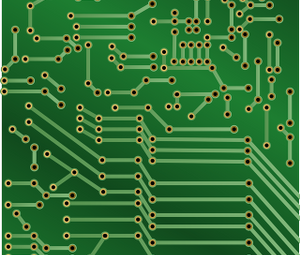
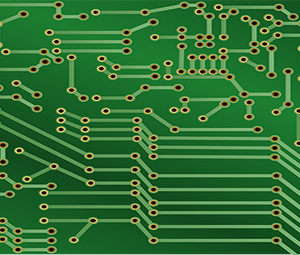
Updated from Publii

diff --git a/persistence-connection-mysql/index.html b/persistence-connection-mysql/index.html
@@ -1,4 +1,4 @@
-<!DOCTYPE html><html><head><meta charset="utf-8"><meta http-equiv="X-UA-Compatible" content="IE=edge"><meta name="viewport" content="width=device-width,initial-scale=1"><title>Kết nối liên tục - persistent connection trong MySQL - /* Dev Web With Me */</title><meta name="robots" content="index, follow"><link rel="canonical" href="http://devwebwithme.tk/persistence-connection-mysql/"><link rel="amphtml" href="http://devwebwithme.tk/amp/persistence-connection-mysql/"><link type="application/atom+xml" rel="alternate" href="http://devwebwithme.tk/feed.xml"><meta property="og:title" content="Kết nối liên tục - persistent connection trong MySQL"><meta property="og:image" content="http://devwebwithme.tk/media/posts/6/circuit-158374_640.png"><meta property="og:site_name" content="My blog - /* Dev Web With Me */"><meta property="og:description" content=""><link rel="stylesheet" href="http://devwebwithme.tk/assets/css/style.css?v&#x3D;20554b562f0d99df5596df281dcb44e1"><link rel="stylesheet" href="http://devwebwithme.tk/assets/css/responsiveslides.css?v&#x3D;895ebaa8b26d099f10a16526ba78f510"><link rel="stylesheet" href="http://devwebwithme.tk/assets/css/prism.css?v&#x3D;b1dda787b1a9954b1b6b1cccea7f81cf"><script type="application/ld+json">{"@context":"http://schema.org","@type":"Article","mainEntityOfPage":{"@type":"WebPage","@id":"http://devwebwithme.tk/persistence-connection-mysql/"},"headline":"Kết nối liên tục - persistent connection trong MySQL","datePublished":"2017-10-04T14:34","dateModified":"2017-10-05T12:04","image":{"@type":"ImageObject","url":"http://devwebwithme.tk/media/posts/6/circuit-158374_640.png","height":636,"width":640},"description":"Đ&acirc;y l&agrave; vấn đề được đề cập đến ở một c&acirc;u hỏi của StackOverFlow.com. T&ocirc;i muốn tr&igrave;nh b&agrave;y th&ecirc;m một v&agrave;i quan điểm của m&igrave;nh trong việc sử dụng loại&hellip;","author":{"@type":"Person","name":"@dp0613"},"publisher":{"@type":"Organization","name":"@dp0613"}}</script></head><body><div class="container"><header class="top"><a class="logo" href="http://devwebwithme.tk">/* Dev Web With Me */</a><nav class="navbar js-navbar"><button class="navbar__toggle js-navbar__toggle">Menu</button><ul class="navbar__menu"><li><a href="http://devwebwithme.tk/" title="Trang chủ">Trang chủ</a></li><li class="has-submenu"><span title="Bài viết">Bài viết</span><ul class="navbar__submenu"><li><a href="http://devwebwithme.tk/chuyen-muc/khoa-hoc/" title="Khóa học">Khóa học</a></li><li><a href="http://devwebwithme.tk/chuyen-muc/huong-dan/" title="Hướng dẫn">Hướng dẫn</a></li><li><a href="http://devwebwithme.tk/chuyen-muc/kinh-nghiem/" title="Kinh nghiệm">Kinh nghiệm</a></li><li><a href="http://devwebwithme.tk/chuyen-muc/sach-hay/" title="Sách hay">Sách hay</a></li><li><a href="http://devwebwithme.tk/chuyen-muc/loi-song/" title="Lối sống">Lối sống</a></li></ul></li><li><span title="Dự án">Dự án</span></li><li><a href="http://devwebwithme.tk/tac-gia/dp0613/" title="Về @dp0613">Về @dp0613</a></li><li><a href="http://devwebwithme.tk/lien-he/" title="Liên hệ">Liên hệ</a></li><li class="donate-btn"><a href="http://devwebwithme.tk/ung-ho-toi/" title="ỦNG HỘ TÔI !">ỦNG HỘ TÔI !</a></li></ul></nav></header><main class="main"><article class="post"><header><h1>Kết nối liên tục - persistent connection trong MySQL</h1><ul class="post__meta u-small"><li>Tác giả: <a href="http://devwebwithme.tk/tac-gia/dp0613/" rel="author" title="@dp0613">@dp0613</a></li><li>Xuất bản vào: <time datetime="2017-10-04T14:34">04/10/2017 14:34:20</time></li><li>Chuyên mục: <a href="http://devwebwithme.tk/chuyen-muc/kinh-nghiem/" title="Kinh nghiệm">Kinh nghiệm</a></li></ul><figure><img src="http://devwebwithme.tk/media/posts/6/circuit-158374_640.png" sizes="(max-width: 1024px) 100vw, 1024px" srcset="http://devwebwithme.tk/media/posts/6/responsive/circuit-158374_640-xs.png 300w, http://devwebwithme.tk/media/posts/6/responsive/circuit-158374_640-sm.png 480w, http://devwebwithme.tk/media/posts/6/responsive/circuit-158374_640-md.png 768w, http://devwebwithme.tk/media/posts/6/responsive/circuit-158374_640-lg.png 1024w" alt="Kết nối liên tục - persistent connection trong MySQL"><figcaption>Kết nối liên tục (Hình ảnh từ Pixabay.com)</figcaption></figure></header><div class="post__entry"><p>Đ&acirc;y l&agrave; vấn đề được đề cập đến ở một c&acirc;u hỏi của <a href="https://stackoverflow.com/questions/50303/persistent-db-connections-yea-or-nay" target="_blank" rel="noopener noreferrer">StackOverFlow.com</a>. T&ocirc;i muốn tr&igrave;nh b&agrave;y th&ecirc;m một v&agrave;i quan điểm của m&igrave;nh trong việc sử dụng loại "Kết nối li&ecirc;n tục - persistent connection" trong MySQL.</p><h4>Định nghĩa</h4><p>Kết nối li&ecirc;n tục đ&uacute;ng như t&ecirc;n gọi của n&oacute;, được giữ diễn ra li&ecirc;n tục, n&oacute; kh&ocirc;ng bị ngắt khi chuỗi truy vấn được thực thi xong. Trước khi thực hiện 1 kết nối li&ecirc;n tục đến m&aacute;y chủ, PHP sẽ kiểm tra xem c&oacute; tồn tại kết nối n&agrave;o được tạo trước đ&oacute; kh&ocirc;ng. Nếu c&oacute; PHP sẽ sử dụng kết nối đ&atilde; tạo đ&oacute;, nếu kh&ocirc;ng th&igrave; mới tiến h&agrave;nh tạo 1 kết nối mới.</p><h4>Viết code để mở kết nối li&ecirc;n tục</h4><pre><code class="language-php">
+<!DOCTYPE html><html><head><meta charset="utf-8"><meta http-equiv="X-UA-Compatible" content="IE=edge"><meta name="viewport" content="width=device-width,initial-scale=1"><title>Kết nối liên tục - persistent connection trong MySQL - /* Dev Web With Me */</title><meta name="robots" content="index, follow"><link rel="canonical" href="http://devwebwithme.tk/persistence-connection-mysql/"><link rel="amphtml" href="http://devwebwithme.tk/amp/persistence-connection-mysql/"><link type="application/atom+xml" rel="alternate" href="http://devwebwithme.tk/feed.xml"><meta property="og:title" content="Kết nối liên tục - persistent connection trong MySQL"><meta property="og:image" content="http://devwebwithme.tk/media/posts/6/circuit-158374_640.png"><meta property="og:site_name" content="My blog - /* Dev Web With Me */"><meta property="og:description" content=""><link rel="stylesheet" href="http://devwebwithme.tk/assets/css/style.css?v&#x3D;20554b562f0d99df5596df281dcb44e1"><link rel="stylesheet" href="http://devwebwithme.tk/assets/css/responsiveslides.css?v&#x3D;895ebaa8b26d099f10a16526ba78f510"><link rel="stylesheet" href="http://devwebwithme.tk/assets/css/prism.css?v&#x3D;b1dda787b1a9954b1b6b1cccea7f81cf"><script type="application/ld+json">{"@context":"http://schema.org","@type":"Article","mainEntityOfPage":{"@type":"WebPage","@id":"http://devwebwithme.tk/persistence-connection-mysql/"},"headline":"Kết nối liên tục - persistent connection trong MySQL","datePublished":"2017-10-04T14:34","dateModified":"2017-10-05T15:08","image":{"@type":"ImageObject","url":"http://devwebwithme.tk/media/posts/6/circuit-158374_640.png","height":320,"width":480},"description":"Đ&acirc;y l&agrave; vấn đề được đề cập đến ở một c&acirc;u hỏi của StackOverFlow.com. T&ocirc;i muốn tr&igrave;nh b&agrave;y th&ecirc;m một v&agrave;i quan điểm của m&igrave;nh trong việc sử dụng loại&hellip;","author":{"@type":"Person","name":"@dp0613"},"publisher":{"@type":"Organization","name":"@dp0613"}}</script></head><body><div class="container"><header class="top"><a class="logo" href="http://devwebwithme.tk">/* Dev Web With Me */</a><nav class="navbar js-navbar"><button class="navbar__toggle js-navbar__toggle">Menu</button><ul class="navbar__menu"><li><a href="http://devwebwithme.tk/" title="Trang chủ">Trang chủ</a></li><li class="has-submenu"><span title="Bài viết">Bài viết</span><ul class="navbar__submenu"><li><a href="http://devwebwithme.tk/chuyen-muc/khoa-hoc/" title="Khóa học">Khóa học</a></li><li><a href="http://devwebwithme.tk/chuyen-muc/huong-dan/" title="Hướng dẫn">Hướng dẫn</a></li><li><a href="http://devwebwithme.tk/chuyen-muc/kinh-nghiem/" title="Kinh nghiệm">Kinh nghiệm</a></li><li><a href="http://devwebwithme.tk/chuyen-muc/sach-hay/" title="Sách hay">Sách hay</a></li><li><a href="http://devwebwithme.tk/chuyen-muc/loi-song/" title="Lối sống">Lối sống</a></li></ul></li><li><span title="Dự án">Dự án</span></li><li><a href="http://devwebwithme.tk/tac-gia/dp0613/" title="Về @dp0613">Về @dp0613</a></li><li><a href="http://devwebwithme.tk/lien-he/" title="Liên hệ">Liên hệ</a></li><li class="donate-btn"><a href="http://devwebwithme.tk/ung-ho-toi/" title="ỦNG HỘ TÔI !">ỦNG HỘ TÔI !</a></li></ul></nav></header><main class="main"><article class="post"><header><h1>Kết nối liên tục - persistent connection trong MySQL</h1><ul class="post__meta u-small"><li>Tác giả: <a href="http://devwebwithme.tk/tac-gia/dp0613/" rel="author" title="@dp0613">@dp0613</a></li><li>Xuất bản vào: <time datetime="2017-10-04T14:34">04/10/2017 14:34:20</time></li><li>Chuyên mục: <a href="http://devwebwithme.tk/chuyen-muc/kinh-nghiem/" title="Kinh nghiệm">Kinh nghiệm</a></li></ul><figure><img src="http://devwebwithme.tk/media/posts/6/circuit-158374_640.png" sizes="(max-width: 1024px) 100vw, 1024px" srcset="http://devwebwithme.tk/media/posts/6/responsive/circuit-158374_640-xs.png 300w, http://devwebwithme.tk/media/posts/6/responsive/circuit-158374_640-sm.png 480w, http://devwebwithme.tk/media/posts/6/responsive/circuit-158374_640-md.png 768w, http://devwebwithme.tk/media/posts/6/responsive/circuit-158374_640-lg.png 1024w" alt="Kết nối liên tục - persistent connection trong MySQL"><figcaption>Kết nối liên tục - persistent connection trong MySQL (Hình ảnh từ Pixabay.com)</figcaption></figure></header><div class="post__entry"><p>Đ&acirc;y l&agrave; vấn đề được đề cập đến ở một c&acirc;u hỏi của <a href="https://stackoverflow.com/questions/50303/persistent-db-connections-yea-or-nay" target="_blank" rel="noopener noreferrer">StackOverFlow.com</a>. T&ocirc;i muốn tr&igrave;nh b&agrave;y th&ecirc;m một v&agrave;i quan điểm của m&igrave;nh trong việc sử dụng loại "Kết nối li&ecirc;n tục - persistent connection" trong MySQL.</p><h4>Định nghĩa</h4><p>Kết nối li&ecirc;n tục đ&uacute;ng như t&ecirc;n gọi của n&oacute;, được giữ diễn ra li&ecirc;n tục, n&oacute; kh&ocirc;ng bị ngắt khi chuỗi truy vấn được thực thi xong. Trước khi thực hiện 1 kết nối li&ecirc;n tục đến m&aacute;y chủ, PHP sẽ kiểm tra xem c&oacute; tồn tại kết nối n&agrave;o được tạo trước đ&oacute; kh&ocirc;ng. Nếu c&oacute; PHP sẽ sử dụng kết nối đ&atilde; tạo đ&oacute;, nếu kh&ocirc;ng th&igrave; mới tiến h&agrave;nh tạo 1 kết nối mới.</p><h4>Viết code để mở kết nối li&ecirc;n tục</h4><pre><code class="language-php">
 &lt;?php 
 	//Kết nối th&ocirc;ng qua mysqli
 	$conn = mysqli_query('p:localhost', 'root', '', 'my_db_name');

diff --git a/amp/tac-gia/dp0613/index.html b/amp/tac-gia/dp0613/index.html
@@ -344,4 +344,4 @@
         .author-avatar {
             margin: 1rem auto;
             width: 100px;
-        }</style><style amp-boilerplate>body{-webkit-animation:-amp-start 8s steps(1,end) 0s 1 normal both;-moz-animation:-amp-start 8s steps(1,end) 0s 1 normal both;-ms-animation:-amp-start 8s steps(1,end) 0s 1 normal both;animation:-amp-start 8s steps(1,end) 0s 1 normal both}@-webkit-keyframes -amp-start{from{visibility:hidden}to{visibility:visible}}@-moz-keyframes -amp-start{from{visibility:hidden}to{visibility:visible}}@-ms-keyframes -amp-start{from{visibility:hidden}to{visibility:visible}}@-o-keyframes -amp-start{from{visibility:hidden}to{visibility:visible}}@keyframes -amp-start{from{visibility:hidden}to{visibility:visible}}</style><noscript><style amp-boilerplate>body{-webkit-animation:none;-moz-animation:none;-ms-animation:none;animation:none}</style></noscript><script async src="https://cdn.ampproject.org/v0.js"></script></head><body><nav class="navbar"><div><a on="tap:navbar-sidebar.toggle" class="navbar-sidebar-toggle" title="Menu">Menu</a> <a class="logo logo-text" href="http://devwebwithme.tk/amp">/* Dev Web With Me */</a></div></nav><main class="wrap"><section class="hero"><header class="author"><amp-img src="http://devwebwithme.tk/media/website/dp0613.png" alt="@dp0613" class="author-avatar" height="180" layout="responsive" width="180"></amp-img><h1>@dp0613 <sup>(2)</sup></h1><p>Đam mê lập trình web. Yêu database. Ghét framework. Hay vọc bảo mật. Lấy chia sẻ và kết bạn làm niềm vui.</p></header></section><article><a href="http://devwebwithme.tk/amp/persistence-connection-mysql/"><amp-img src="http://devwebwithme.tk/media/posts/6/circuit-158374_640.png" alt="Kết nối liên tục - persistent connection trong MySQL" srcset="http://devwebwithme.tk/media/posts/6/responsive/circuit-158374_640-xs.png 300w ,http://devwebwithme.tk/media/posts/6/responsive/circuit-158374_640-sm.png 480w ,http://devwebwithme.tk/media/posts/6/responsive/circuit-158374_640-md.png 768w" sizes="(max-width: 768px) 100vw, 768px" height="636" layout="responsive" width="640"></amp-img></a><header><h2><a href="http://devwebwithme.tk/amp/persistence-connection-mysql/">Kết nối liên tục - persistent connection trong MySQL</a></h2><p><time datetime="2017-10-04T14:34">cu20to34</time></p></header><p>Đ&acirc;y l&agrave; vấn đề được đề cập đến ở một c&acirc;u hỏi của StackOverFlow.com. T&ocirc;i muốn tr&igrave;nh b&agrave;y th&ecirc;m một v&agrave;i quan điểm của m&igrave;nh trong việc sử dụng loại&hellip;</p></article><article><a href="http://devwebwithme.tk/amp/switch-va-if-else-if-lieu-ban-co-dang-dung-bua-dong-tua-vit-1506942139/"><amp-img src="http://devwebwithme.tk/media/posts/5/confused-880735_1280.jpg" alt="switch case và if else: khi nào và ở đâu?" srcset="http://devwebwithme.tk/media/posts/5/responsive/confused-880735_1280-xs.jpg 300w ,http://devwebwithme.tk/media/posts/5/responsive/confused-880735_1280-sm.jpg 480w ,http://devwebwithme.tk/media/posts/5/responsive/confused-880735_1280-md.jpg 768w" sizes="(max-width: 768px) 100vw, 768px" height="853" layout="responsive" width="1280"></amp-img></a><header><h2><a href="http://devwebwithme.tk/amp/switch-va-if-else-if-lieu-ban-co-dang-dung-bua-dong-tua-vit-1506942139/">switch case và if else: Liệu bạn có đang dùng búa để đóng tua vít?</a></h2><p><time datetime="2017-10-02T17:58">cu46to58</time></p></header><p>L&agrave; một lập tr&igrave;nh vi&ecirc;n PHP th&igrave; tui c&oacute; niềm tin rằng bạn biết đến cấu tr&uacute;c switch...case v&agrave; if... else. Trong b&agrave;i viết n&agrave;y tui sẽ cố gắng ph&acirc;n&hellip;</p></article></main><footer class="bottom">@dp0613 © 2017</footer><amp-sidebar id="navbar-sidebar" layout="nodisplay"><ul><li><a href="http://devwebwithme.tk/amp/" title="Trang chủ">Trang chủ</a></li><li><span title="Bài viết">Bài viết</span><ul class="navbar__submenu"><li><a href="http://devwebwithme.tk/amp/chuyen-muc/khoa-hoc/" title="Khóa học">Khóa học</a></li><li><a href="http://devwebwithme.tk/amp/chuyen-muc/huong-dan/" title="Hướng dẫn">Hướng dẫn</a></li><li><a href="http://devwebwithme.tk/amp/chuyen-muc/kinh-nghiem/" title="Kinh nghiệm">Kinh nghiệm</a></li><li><a href="http://devwebwithme.tk/amp/chuyen-muc/sach-hay/" title="Sách hay">Sách hay</a></li><li><a href="http://devwebwithme.tk/amp/chuyen-muc/loi-song/" title="Lối sống">Lối sống</a></li></ul></li><li><span title="Dự án">Dự án</span></li><li><a href="http://devwebwithme.tk/amp/tac-gia/dp0613/" title="Về @dp0613">Về @dp0613</a></li><li><a href="http://devwebwithme.tk/amp/lien-he/" title="Liên hệ">Liên hệ</a></li><li><a href="http://devwebwithme.tk/amp/ung-ho-toi/" title="ỦNG HỘ TÔI !">ỦNG HỘ TÔI !</a></li></ul></amp-sidebar></body></html>
+        }</style><style amp-boilerplate>body{-webkit-animation:-amp-start 8s steps(1,end) 0s 1 normal both;-moz-animation:-amp-start 8s steps(1,end) 0s 1 normal both;-ms-animation:-amp-start 8s steps(1,end) 0s 1 normal both;animation:-amp-start 8s steps(1,end) 0s 1 normal both}@-webkit-keyframes -amp-start{from{visibility:hidden}to{visibility:visible}}@-moz-keyframes -amp-start{from{visibility:hidden}to{visibility:visible}}@-ms-keyframes -amp-start{from{visibility:hidden}to{visibility:visible}}@-o-keyframes -amp-start{from{visibility:hidden}to{visibility:visible}}@keyframes -amp-start{from{visibility:hidden}to{visibility:visible}}</style><noscript><style amp-boilerplate>body{-webkit-animation:none;-moz-animation:none;-ms-animation:none;animation:none}</style></noscript><script async src="https://cdn.ampproject.org/v0.js"></script></head><body><nav class="navbar"><div><a on="tap:navbar-sidebar.toggle" class="navbar-sidebar-toggle" title="Menu">Menu</a> <a class="logo logo-text" href="http://devwebwithme.tk/amp">/* Dev Web With Me */</a></div></nav><main class="wrap"><section class="hero"><header class="author"><amp-img src="http://devwebwithme.tk/media/website/dp0613.png" alt="@dp0613" class="author-avatar" height="180" layout="responsive" width="180"></amp-img><h1>@dp0613 <sup>(2)</sup></h1><p>Đam mê lập trình web. Yêu database. Ghét framework. Hay vọc bảo mật. Lấy chia sẻ và kết bạn làm niềm vui.</p></header></section><article><a href="http://devwebwithme.tk/amp/persistence-connection-mysql/"><amp-img src="http://devwebwithme.tk/media/posts/6/circuit-158374_640.png" alt="Kết nối liên tục - persistent connection trong MySQL" srcset="http://devwebwithme.tk/media/posts/6/responsive/circuit-158374_640-xs.png 300w ,http://devwebwithme.tk/media/posts/6/responsive/circuit-158374_640-sm.png 480w ,http://devwebwithme.tk/media/posts/6/responsive/circuit-158374_640-md.png 768w" sizes="(max-width: 768px) 100vw, 768px" height="320" layout="responsive" width="480"></amp-img></a><header><h2><a href="http://devwebwithme.tk/amp/persistence-connection-mysql/">Kết nối liên tục - persistent connection trong MySQL</a></h2><p><time datetime="2017-10-04T14:34">cu20to34</time></p></header><p>Đ&acirc;y l&agrave; vấn đề được đề cập đến ở một c&acirc;u hỏi của StackOverFlow.com. T&ocirc;i muốn tr&igrave;nh b&agrave;y th&ecirc;m một v&agrave;i quan điểm của m&igrave;nh trong việc sử dụng loại&hellip;</p></article><article><a href="http://devwebwithme.tk/amp/switch-va-if-else-if-lieu-ban-co-dang-dung-bua-dong-tua-vit-1506942139/"><amp-img src="http://devwebwithme.tk/media/posts/5/confused-880735_1280.jpg" alt="switch case và if else: khi nào và ở đâu?" srcset="http://devwebwithme.tk/media/posts/5/responsive/confused-880735_1280-xs.jpg 300w ,http://devwebwithme.tk/media/posts/5/responsive/confused-880735_1280-sm.jpg 480w ,http://devwebwithme.tk/media/posts/5/responsive/confused-880735_1280-md.jpg 768w" sizes="(max-width: 768px) 100vw, 768px" height="853" layout="responsive" width="1280"></amp-img></a><header><h2><a href="http://devwebwithme.tk/amp/switch-va-if-else-if-lieu-ban-co-dang-dung-bua-dong-tua-vit-1506942139/">switch case và if else: Liệu bạn có đang dùng búa để đóng tua vít?</a></h2><p><time datetime="2017-10-02T17:58">cu46to58</time></p></header><p>L&agrave; một lập tr&igrave;nh vi&ecirc;n PHP th&igrave; tui c&oacute; niềm tin rằng bạn biết đến cấu tr&uacute;c switch...case v&agrave; if... else. Trong b&agrave;i viết n&agrave;y tui sẽ cố gắng ph&acirc;n&hellip;</p></article></main><footer class="bottom">@dp0613 © 2017</footer><amp-sidebar id="navbar-sidebar" layout="nodisplay"><ul><li><a href="http://devwebwithme.tk/amp/" title="Trang chủ">Trang chủ</a></li><li><span title="Bài viết">Bài viết</span><ul class="navbar__submenu"><li><a href="http://devwebwithme.tk/amp/chuyen-muc/khoa-hoc/" title="Khóa học">Khóa học</a></li><li><a href="http://devwebwithme.tk/amp/chuyen-muc/huong-dan/" title="Hướng dẫn">Hướng dẫn</a></li><li><a href="http://devwebwithme.tk/amp/chuyen-muc/kinh-nghiem/" title="Kinh nghiệm">Kinh nghiệm</a></li><li><a href="http://devwebwithme.tk/amp/chuyen-muc/sach-hay/" title="Sách hay">Sách hay</a></li><li><a href="http://devwebwithme.tk/amp/chuyen-muc/loi-song/" title="Lối sống">Lối sống</a></li></ul></li><li><span title="Dự án">Dự án</span></li><li><a href="http://devwebwithme.tk/amp/tac-gia/dp0613/" title="Về @dp0613">Về @dp0613</a></li><li><a href="http://devwebwithme.tk/amp/lien-he/" title="Liên hệ">Liên hệ</a></li><li><a href="http://devwebwithme.tk/amp/ung-ho-toi/" title="ỦNG HỘ TÔI !">ỦNG HỘ TÔI !</a></li></ul></amp-sidebar></body></html>

diff --git a/amp/persistence-connection-mysql/index.html b/amp/persistence-connection-mysql/index.html
@@ -1,4 +1,4 @@
-<!doctype html><html amp lang="en"><head><meta charset="utf-8"><title>Kết nối liên tục - persistent connection trong MySQL - /* Dev Web With Me */</title><meta name="robots" content="index, follow"><link rel="canonical" href="http://devwebwithme.tk/persistence-connection-mysql/"><meta name="viewport" content="width=device-width,minimum-scale=1,initial-scale=1"><link href="https://fonts.googleapis.com/css?family=Roboto:400,700" rel="stylesheet" type="text/css"><script async custom-element="amp-sidebar" src="https://cdn.ampproject.org/v0/amp-sidebar-0.1.js"></script><script async custom-element="amp-social-share" src="https://cdn.ampproject.org/v0/amp-social-share-0.1.js"></script><script type="application/ld+json">{"@context":"http://schema.org","@type":"Article","mainEntityOfPage":{"@type":"WebPage","@id":"http://devwebwithme.tk/amp/persistence-connection-mysql/"},"headline":"Kết nối liên tục - persistent connection trong MySQL","datePublished":"2017-10-04T14:34","dateModified":"2017-10-05T12:04","image":{"@type":"ImageObject","url":"http://devwebwithme.tk/media/posts/6/circuit-158374_640.png","height":636,"width":640},"description":"Đ&acirc;y l&agrave; vấn đề được đề cập đến ở một c&acirc;u hỏi của StackOverFlow.com. T&ocirc;i muốn tr&igrave;nh b&agrave;y th&ecirc;m một v&agrave;i quan điểm của m&igrave;nh trong việc sử dụng loại&hellip;","author":{"@type":"Person","name":"@dp0613"},"publisher":{"@type":"Organization","name":"@dp0613"}}</script><style amp-custom="">body,
+<!doctype html><html amp lang="en"><head><meta charset="utf-8"><title>Kết nối liên tục - persistent connection trong MySQL - /* Dev Web With Me */</title><meta name="robots" content="index, follow"><link rel="canonical" href="http://devwebwithme.tk/persistence-connection-mysql/"><meta name="viewport" content="width=device-width,minimum-scale=1,initial-scale=1"><link href="https://fonts.googleapis.com/css?family=Roboto:400,700" rel="stylesheet" type="text/css"><script async custom-element="amp-sidebar" src="https://cdn.ampproject.org/v0/amp-sidebar-0.1.js"></script><script async custom-element="amp-social-share" src="https://cdn.ampproject.org/v0/amp-social-share-0.1.js"></script><script type="application/ld+json">{"@context":"http://schema.org","@type":"Article","mainEntityOfPage":{"@type":"WebPage","@id":"http://devwebwithme.tk/amp/persistence-connection-mysql/"},"headline":"Kết nối liên tục - persistent connection trong MySQL","datePublished":"2017-10-04T14:34","dateModified":"2017-10-05T15:08","image":{"@type":"ImageObject","url":"http://devwebwithme.tk/media/posts/6/circuit-158374_640.png","height":320,"width":480},"description":"Đ&acirc;y l&agrave; vấn đề được đề cập đến ở một c&acirc;u hỏi của StackOverFlow.com. T&ocirc;i muốn tr&igrave;nh b&agrave;y th&ecirc;m một v&agrave;i quan điểm của m&igrave;nh trong việc sử dụng loại&hellip;","author":{"@type":"Person","name":"@dp0613"},"publisher":{"@type":"Organization","name":"@dp0613"}}</script><style amp-custom="">body,
 		div,
 		dl,
 		dt,
@@ -344,7 +344,7 @@
         .author-avatar {
             margin: 1rem auto;
             width: 100px;
-        }</style><style amp-boilerplate>body{-webkit-animation:-amp-start 8s steps(1,end) 0s 1 normal both;-moz-animation:-amp-start 8s steps(1,end) 0s 1 normal both;-ms-animation:-amp-start 8s steps(1,end) 0s 1 normal both;animation:-amp-start 8s steps(1,end) 0s 1 normal both}@-webkit-keyframes -amp-start{from{visibility:hidden}to{visibility:visible}}@-moz-keyframes -amp-start{from{visibility:hidden}to{visibility:visible}}@-ms-keyframes -amp-start{from{visibility:hidden}to{visibility:visible}}@-o-keyframes -amp-start{from{visibility:hidden}to{visibility:visible}}@keyframes -amp-start{from{visibility:hidden}to{visibility:visible}}</style><noscript><style amp-boilerplate>body{-webkit-animation:none;-moz-animation:none;-ms-animation:none;animation:none}</style></noscript><script async src="https://cdn.ampproject.org/v0.js"></script></head><body><nav class="navbar"><div><a on="tap:navbar-sidebar.toggle" class="navbar-sidebar-toggle" title="Menu">Menu</a> <a class="logo logo-text" href="http://devwebwithme.tk/amp">/* Dev Web With Me */</a></div></nav><main class="wrap"><article class="post"><header><h1>Kết nối liên tục - persistent connection trong MySQL</h1><p>by <a href="http://devwebwithme.tk/amp/tac-gia/dp0613/" rel="nofollow" title="@dp0613">@dp0613</a>,<br>published on <time datetime="2017-10-04T14:34">cu20to34</time></p></header><figure><amp-img src="http://devwebwithme.tk/media/posts/6/circuit-158374_640.png" alt="Kết nối liên tục - persistent connection trong MySQL" srcset="http://devwebwithme.tk/media/posts/6/responsive/circuit-158374_640-xs.png 300w ,http://devwebwithme.tk/media/posts/6/responsive/circuit-158374_640-sm.png 480w ,http://devwebwithme.tk/media/posts/6/responsive/circuit-158374_640-md.png 768w" sizes="(max-width: 768px) 100vw, 768px" height="636" layout="responsive" width="640"></amp-img><figcaption>Kết nối liên tục (Hình ảnh từ Pixabay.com)</figcaption></figure><p>Đ&acirc;y l&agrave; vấn đề được đề cập đến ở một c&acirc;u hỏi của <a href="https://stackoverflow.com/questions/50303/persistent-db-connections-yea-or-nay" target="_blank" rel="noopener noreferrer">StackOverFlow.com</a>. T&ocirc;i muốn tr&igrave;nh b&agrave;y th&ecirc;m một v&agrave;i quan điểm của m&igrave;nh trong việc sử dụng loại "Kết nối li&ecirc;n tục - persistent connection" trong MySQL.</p><h4>Định nghĩa</h4><p>Kết nối li&ecirc;n tục đ&uacute;ng như t&ecirc;n gọi của n&oacute;, được giữ diễn ra li&ecirc;n tục, n&oacute; kh&ocirc;ng bị ngắt khi chuỗi truy vấn được thực thi xong. Trước khi thực hiện 1 kết nối li&ecirc;n tục đến m&aacute;y chủ, PHP sẽ kiểm tra xem c&oacute; tồn tại kết nối n&agrave;o được tạo trước đ&oacute; kh&ocirc;ng. Nếu c&oacute; PHP sẽ sử dụng kết nối đ&atilde; tạo đ&oacute;, nếu kh&ocirc;ng th&igrave; mới tiến h&agrave;nh tạo 1 kết nối mới.</p><h4>Viết code để mở kết nối li&ecirc;n tục</h4><pre><code class="language-php">
+        }</style><style amp-boilerplate>body{-webkit-animation:-amp-start 8s steps(1,end) 0s 1 normal both;-moz-animation:-amp-start 8s steps(1,end) 0s 1 normal both;-ms-animation:-amp-start 8s steps(1,end) 0s 1 normal both;animation:-amp-start 8s steps(1,end) 0s 1 normal both}@-webkit-keyframes -amp-start{from{visibility:hidden}to{visibility:visible}}@-moz-keyframes -amp-start{from{visibility:hidden}to{visibility:visible}}@-ms-keyframes -amp-start{from{visibility:hidden}to{visibility:visible}}@-o-keyframes -amp-start{from{visibility:hidden}to{visibility:visible}}@keyframes -amp-start{from{visibility:hidden}to{visibility:visible}}</style><noscript><style amp-boilerplate>body{-webkit-animation:none;-moz-animation:none;-ms-animation:none;animation:none}</style></noscript><script async src="https://cdn.ampproject.org/v0.js"></script></head><body><nav class="navbar"><div><a on="tap:navbar-sidebar.toggle" class="navbar-sidebar-toggle" title="Menu">Menu</a> <a class="logo logo-text" href="http://devwebwithme.tk/amp">/* Dev Web With Me */</a></div></nav><main class="wrap"><article class="post"><header><h1>Kết nối liên tục - persistent connection trong MySQL</h1><p>by <a href="http://devwebwithme.tk/amp/tac-gia/dp0613/" rel="nofollow" title="@dp0613">@dp0613</a>,<br>published on <time datetime="2017-10-04T14:34">cu20to34</time></p></header><figure><amp-img src="http://devwebwithme.tk/media/posts/6/circuit-158374_640.png" alt="Kết nối liên tục - persistent connection trong MySQL" srcset="http://devwebwithme.tk/media/posts/6/responsive/circuit-158374_640-xs.png 300w ,http://devwebwithme.tk/media/posts/6/responsive/circuit-158374_640-sm.png 480w ,http://devwebwithme.tk/media/posts/6/responsive/circuit-158374_640-md.png 768w" sizes="(max-width: 768px) 100vw, 768px" height="320" layout="responsive" width="480"></amp-img><figcaption>Kết nối liên tục - persistent connection trong MySQL (Hình ảnh từ Pixabay.com)</figcaption></figure><p>Đ&acirc;y l&agrave; vấn đề được đề cập đến ở một c&acirc;u hỏi của <a href="https://stackoverflow.com/questions/50303/persistent-db-connections-yea-or-nay" target="_blank" rel="noopener noreferrer">StackOverFlow.com</a>. T&ocirc;i muốn tr&igrave;nh b&agrave;y th&ecirc;m một v&agrave;i quan điểm của m&igrave;nh trong việc sử dụng loại "Kết nối li&ecirc;n tục - persistent connection" trong MySQL.</p><h4>Định nghĩa</h4><p>Kết nối li&ecirc;n tục đ&uacute;ng như t&ecirc;n gọi của n&oacute;, được giữ diễn ra li&ecirc;n tục, n&oacute; kh&ocirc;ng bị ngắt khi chuỗi truy vấn được thực thi xong. Trước khi thực hiện 1 kết nối li&ecirc;n tục đến m&aacute;y chủ, PHP sẽ kiểm tra xem c&oacute; tồn tại kết nối n&agrave;o được tạo trước đ&oacute; kh&ocirc;ng. Nếu c&oacute; PHP sẽ sử dụng kết nối đ&atilde; tạo đ&oacute;, nếu kh&ocirc;ng th&igrave; mới tiến h&agrave;nh tạo 1 kết nối mới.</p><h4>Viết code để mở kết nối li&ecirc;n tục</h4><pre><code class="language-php">
 &lt;?php 
 	//Kết nối th&ocirc;ng qua mysqli
 	$conn = mysqli_query('p:localhost', 'root', '', 'my_db_name');

diff --git a/amp/chuyen-muc/kinh-nghiem/index.html b/amp/chuyen-muc/kinh-nghiem/index.html
@@ -344,4 +344,4 @@
         .author-avatar {
             margin: 1rem auto;
             width: 100px;
-        }</style><style amp-boilerplate>body{-webkit-animation:-amp-start 8s steps(1,end) 0s 1 normal both;-moz-animation:-amp-start 8s steps(1,end) 0s 1 normal both;-ms-animation:-amp-start 8s steps(1,end) 0s 1 normal both;animation:-amp-start 8s steps(1,end) 0s 1 normal both}@-webkit-keyframes -amp-start{from{visibility:hidden}to{visibility:visible}}@-moz-keyframes -amp-start{from{visibility:hidden}to{visibility:visible}}@-ms-keyframes -amp-start{from{visibility:hidden}to{visibility:visible}}@-o-keyframes -amp-start{from{visibility:hidden}to{visibility:visible}}@keyframes -amp-start{from{visibility:hidden}to{visibility:visible}}</style><noscript><style amp-boilerplate>body{-webkit-animation:none;-moz-animation:none;-ms-animation:none;animation:none}</style></noscript><script async src="https://cdn.ampproject.org/v0.js"></script></head><body><nav class="navbar"><div><a on="tap:navbar-sidebar.toggle" class="navbar-sidebar-toggle" title="Menu">Menu</a> <a class="logo logo-text" href="http://devwebwithme.tk/amp">/* Dev Web With Me */</a></div></nav><main class="wrap"><section class="hero"><header><h1>Kinh nghiệm <sup>(2)</sup></h1></header></section><article><a href="http://devwebwithme.tk/amp/persistence-connection-mysql/"><amp-img src="http://devwebwithme.tk/media/posts/6/circuit-158374_640.png" srcset="http://devwebwithme.tk/media/posts/6/responsive/circuit-158374_640-xs.png 300w ,http://devwebwithme.tk/media/posts/6/responsive/circuit-158374_640-sm.png 480w ,http://devwebwithme.tk/media/posts/6/responsive/circuit-158374_640-md.png 768w" sizes="(max-width: 768px) 100vw, 768px" alt="Kết nối liên tục - persistent connection trong MySQL" height="636" layout="responsive" width="640"></amp-img></a><header><h2><a href="http://devwebwithme.tk/amp/persistence-connection-mysql/">Kết nối liên tục - persistent connection trong MySQL</a></h2><p><a href="http://devwebwithme.tk/amp/tac-gia/dp0613/">@dp0613</a>, <time datetime="2017-10-04T14:34">cu20to34</time></p></header><p>Đ&acirc;y l&agrave; vấn đề được đề cập đến ở một c&acirc;u hỏi của StackOverFlow.com. T&ocirc;i muốn tr&igrave;nh b&agrave;y th&ecirc;m một v&agrave;i quan điểm của m&igrave;nh trong việc sử dụng loại&hellip;</p></article><article><a href="http://devwebwithme.tk/amp/switch-va-if-else-if-lieu-ban-co-dang-dung-bua-dong-tua-vit-1506942139/"><amp-img src="http://devwebwithme.tk/media/posts/5/confused-880735_1280.jpg" srcset="http://devwebwithme.tk/media/posts/5/responsive/confused-880735_1280-xs.jpg 300w ,http://devwebwithme.tk/media/posts/5/responsive/confused-880735_1280-sm.jpg 480w ,http://devwebwithme.tk/media/posts/5/responsive/confused-880735_1280-md.jpg 768w" sizes="(max-width: 768px) 100vw, 768px" alt="switch case và if else: khi nào và ở đâu?" height="853" layout="responsive" width="1280"></amp-img></a><header><h2><a href="http://devwebwithme.tk/amp/switch-va-if-else-if-lieu-ban-co-dang-dung-bua-dong-tua-vit-1506942139/">switch case và if else: Liệu bạn có đang dùng búa để đóng tua vít?</a></h2><p><a href="http://devwebwithme.tk/amp/tac-gia/dp0613/">@dp0613</a>, <time datetime="2017-10-02T17:58">cu46to58</time></p></header><p>L&agrave; một lập tr&igrave;nh vi&ecirc;n PHP th&igrave; tui c&oacute; niềm tin rằng bạn biết đến cấu tr&uacute;c switch...case v&agrave; if... else. Trong b&agrave;i viết n&agrave;y tui sẽ cố gắng ph&acirc;n&hellip;</p></article></main><footer class="bottom">@dp0613 © 2017</footer><amp-sidebar id="navbar-sidebar" layout="nodisplay"><ul><li><a href="http://devwebwithme.tk/amp/" title="Trang chủ">Trang chủ</a></li><li><span title="Bài viết">Bài viết</span><ul class="navbar__submenu"><li><a href="http://devwebwithme.tk/amp/chuyen-muc/khoa-hoc/" title="Khóa học">Khóa học</a></li><li><a href="http://devwebwithme.tk/amp/chuyen-muc/huong-dan/" title="Hướng dẫn">Hướng dẫn</a></li><li class="active"><a href="http://devwebwithme.tk/amp/chuyen-muc/kinh-nghiem/" title="Kinh nghiệm">Kinh nghiệm</a></li><li><a href="http://devwebwithme.tk/amp/chuyen-muc/sach-hay/" title="Sách hay">Sách hay</a></li><li><a href="http://devwebwithme.tk/amp/chuyen-muc/loi-song/" title="Lối sống">Lối sống</a></li></ul></li><li><span title="Dự án">Dự án</span></li><li><a href="http://devwebwithme.tk/amp/tac-gia/dp0613/" title="Về @dp0613">Về @dp0613</a></li><li><a href="http://devwebwithme.tk/amp/lien-he/" title="Liên hệ">Liên hệ</a></li><li><a href="http://devwebwithme.tk/amp/ung-ho-toi/" title="ỦNG HỘ TÔI !">ỦNG HỘ TÔI !</a></li></ul></amp-sidebar></body></html>
+        }</style><style amp-boilerplate>body{-webkit-animation:-amp-start 8s steps(1,end) 0s 1 normal both;-moz-animation:-amp-start 8s steps(1,end) 0s 1 normal both;-ms-animation:-amp-start 8s steps(1,end) 0s 1 normal both;animation:-amp-start 8s steps(1,end) 0s 1 normal both}@-webkit-keyframes -amp-start{from{visibility:hidden}to{visibility:visible}}@-moz-keyframes -amp-start{from{visibility:hidden}to{visibility:visible}}@-ms-keyframes -amp-start{from{visibility:hidden}to{visibility:visible}}@-o-keyframes -amp-start{from{visibility:hidden}to{visibility:visible}}@keyframes -amp-start{from{visibility:hidden}to{visibility:visible}}</style><noscript><style amp-boilerplate>body{-webkit-animation:none;-moz-animation:none;-ms-animation:none;animation:none}</style></noscript><script async src="https://cdn.ampproject.org/v0.js"></script></head><body><nav class="navbar"><div><a on="tap:navbar-sidebar.toggle" class="navbar-sidebar-toggle" title="Menu">Menu</a> <a class="logo logo-text" href="http://devwebwithme.tk/amp">/* Dev Web With Me */</a></div></nav><main class="wrap"><section class="hero"><header><h1>Kinh nghiệm <sup>(2)</sup></h1></header></section><article><a href="http://devwebwithme.tk/amp/persistence-connection-mysql/"><amp-img src="http://devwebwithme.tk/media/posts/6/circuit-158374_640.png" srcset="http://devwebwithme.tk/media/posts/6/responsive/circuit-158374_640-xs.png 300w ,http://devwebwithme.tk/media/posts/6/responsive/circuit-158374_640-sm.png 480w ,http://devwebwithme.tk/media/posts/6/responsive/circuit-158374_640-md.png 768w" sizes="(max-width: 768px) 100vw, 768px" alt="Kết nối liên tục - persistent connection trong MySQL" height="320" layout="responsive" width="480"></amp-img></a><header><h2><a href="http://devwebwithme.tk/amp/persistence-connection-mysql/">Kết nối liên tục - persistent connection trong MySQL</a></h2><p><a href="http://devwebwithme.tk/amp/tac-gia/dp0613/">@dp0613</a>, <time datetime="2017-10-04T14:34">cu20to34</time></p></header><p>Đ&acirc;y l&agrave; vấn đề được đề cập đến ở một c&acirc;u hỏi của StackOverFlow.com. T&ocirc;i muốn tr&igrave;nh b&agrave;y th&ecirc;m một v&agrave;i quan điểm của m&igrave;nh trong việc sử dụng loại&hellip;</p></article><article><a href="http://devwebwithme.tk/amp/switch-va-if-else-if-lieu-ban-co-dang-dung-bua-dong-tua-vit-1506942139/"><amp-img src="http://devwebwithme.tk/media/posts/5/confused-880735_1280.jpg" srcset="http://devwebwithme.tk/media/posts/5/responsive/confused-880735_1280-xs.jpg 300w ,http://devwebwithme.tk/media/posts/5/responsive/confused-880735_1280-sm.jpg 480w ,http://devwebwithme.tk/media/posts/5/responsive/confused-880735_1280-md.jpg 768w" sizes="(max-width: 768px) 100vw, 768px" alt="switch case và if else: khi nào và ở đâu?" height="853" layout="responsive" width="1280"></amp-img></a><header><h2><a href="http://devwebwithme.tk/amp/switch-va-if-else-if-lieu-ban-co-dang-dung-bua-dong-tua-vit-1506942139/">switch case và if else: Liệu bạn có đang dùng búa để đóng tua vít?</a></h2><p><a href="http://devwebwithme.tk/amp/tac-gia/dp0613/">@dp0613</a>, <time datetime="2017-10-02T17:58">cu46to58</time></p></header><p>L&agrave; một lập tr&igrave;nh vi&ecirc;n PHP th&igrave; tui c&oacute; niềm tin rằng bạn biết đến cấu tr&uacute;c switch...case v&agrave; if... else. Trong b&agrave;i viết n&agrave;y tui sẽ cố gắng ph&acirc;n&hellip;</p></article></main><footer class="bottom">@dp0613 © 2017</footer><amp-sidebar id="navbar-sidebar" layout="nodisplay"><ul><li><a href="http://devwebwithme.tk/amp/" title="Trang chủ">Trang chủ</a></li><li><span title="Bài viết">Bài viết</span><ul class="navbar__submenu"><li><a href="http://devwebwithme.tk/amp/chuyen-muc/khoa-hoc/" title="Khóa học">Khóa học</a></li><li><a href="http://devwebwithme.tk/amp/chuyen-muc/huong-dan/" title="Hướng dẫn">Hướng dẫn</a></li><li class="active"><a href="http://devwebwithme.tk/amp/chuyen-muc/kinh-nghiem/" title="Kinh nghiệm">Kinh nghiệm</a></li><li><a href="http://devwebwithme.tk/amp/chuyen-muc/sach-hay/" title="Sách hay">Sách hay</a></li><li><a href="http://devwebwithme.tk/amp/chuyen-muc/loi-song/" title="Lối sống">Lối sống</a></li></ul></li><li><span title="Dự án">Dự án</span></li><li><a href="http://devwebwithme.tk/amp/tac-gia/dp0613/" title="Về @dp0613">Về @dp0613</a></li><li><a href="http://devwebwithme.tk/amp/lien-he/" title="Liên hệ">Liên hệ</a></li><li><a href="http://devwebwithme.tk/amp/ung-ho-toi/" title="ỦNG HỘ TÔI !">ỦNG HỘ TÔI !</a></li></ul></amp-sidebar></body></html>

diff --git a/amp/index.html b/amp/index.html
@@ -344,4 +344,4 @@
         .author-avatar {
             margin: 1rem auto;
             width: 100px;
-        }</style><style amp-boilerplate>body{-webkit-animation:-amp-start 8s steps(1,end) 0s 1 normal both;-moz-animation:-amp-start 8s steps(1,end) 0s 1 normal both;-ms-animation:-amp-start 8s steps(1,end) 0s 1 normal both;animation:-amp-start 8s steps(1,end) 0s 1 normal both}@-webkit-keyframes -amp-start{from{visibility:hidden}to{visibility:visible}}@-moz-keyframes -amp-start{from{visibility:hidden}to{visibility:visible}}@-ms-keyframes -amp-start{from{visibility:hidden}to{visibility:visible}}@-o-keyframes -amp-start{from{visibility:hidden}to{visibility:visible}}@keyframes -amp-start{from{visibility:hidden}to{visibility:visible}}</style><noscript><style amp-boilerplate>body{-webkit-animation:none;-moz-animation:none;-ms-animation:none;animation:none}</style></noscript><script async src="https://cdn.ampproject.org/v0.js"></script></head><body><nav class="navbar"><div><a on="tap:navbar-sidebar.toggle" class="navbar-sidebar-toggle" title="Menu">Menu</a> <a class="logo logo-text" href="http://devwebwithme.tk/amp">/* Dev Web With Me */</a></div></nav><main class="wrap"><article><header><h2><a href="http://devwebwithme.tk/amp/persistence-connection-mysql/">Kết nối liên tục - persistent connection trong MySQL</a></h2><p><a href="http://devwebwithme.tk/amp/tac-gia/dp0613/">@dp0613</a>, <time datetime="2017-10-04T14:34">cu20to34</time></p></header><a href="http://devwebwithme.tk/amp/persistence-connection-mysql/"><amp-img src="http://devwebwithme.tk/media/posts/6/circuit-158374_640.png" alt="Kết nối liên tục - persistent connection trong MySQL" srcset="http://devwebwithme.tk/media/posts/6/responsive/circuit-158374_640-xs.png 300w ,http://devwebwithme.tk/media/posts/6/responsive/circuit-158374_640-sm.png 480w ,http://devwebwithme.tk/media/posts/6/responsive/circuit-158374_640-md.png 768w" sizes="(max-width: 768px) 100vw, 768px" height="636" layout="responsive" width="640"></amp-img></a><p>Đ&acirc;y l&agrave; vấn đề được đề cập đến ở một c&acirc;u hỏi của StackOverFlow.com. T&ocirc;i muốn tr&igrave;nh b&agrave;y th&ecirc;m một v&agrave;i quan điểm của m&igrave;nh trong việc sử dụng loại&hellip;</p></article><article><header><h2><a href="http://devwebwithme.tk/amp/switch-va-if-else-if-lieu-ban-co-dang-dung-bua-dong-tua-vit-1506942139/">switch case và if else: Liệu bạn có đang dùng búa để đóng tua vít?</a></h2><p><a href="http://devwebwithme.tk/amp/tac-gia/dp0613/">@dp0613</a>, <time datetime="2017-10-02T17:58">cu46to58</time></p></header><a href="http://devwebwithme.tk/amp/switch-va-if-else-if-lieu-ban-co-dang-dung-bua-dong-tua-vit-1506942139/"><amp-img src="http://devwebwithme.tk/media/posts/5/confused-880735_1280.jpg" alt="switch case và if else: khi nào và ở đâu?" srcset="http://devwebwithme.tk/media/posts/5/responsive/confused-880735_1280-xs.jpg 300w ,http://devwebwithme.tk/media/posts/5/responsive/confused-880735_1280-sm.jpg 480w ,http://devwebwithme.tk/media/posts/5/responsive/confused-880735_1280-md.jpg 768w" sizes="(max-width: 768px) 100vw, 768px" height="853" layout="responsive" width="1280"></amp-img></a><p>L&agrave; một lập tr&igrave;nh vi&ecirc;n PHP th&igrave; tui c&oacute; niềm tin rằng bạn biết đến cấu tr&uacute;c switch...case v&agrave; if... else. Trong b&agrave;i viết n&agrave;y tui sẽ cố gắng ph&acirc;n&hellip;</p></article></main><footer class="bottom">@dp0613 © 2017</footer><amp-sidebar id="navbar-sidebar" layout="nodisplay"><ul><li><a href="http://devwebwithme.tk/amp/" title="Trang chủ">Trang chủ</a></li><li><span title="Bài viết">Bài viết</span><ul class="navbar__submenu"><li><a href="http://devwebwithme.tk/amp/chuyen-muc/khoa-hoc/" title="Khóa học">Khóa học</a></li><li><a href="http://devwebwithme.tk/amp/chuyen-muc/huong-dan/" title="Hướng dẫn">Hướng dẫn</a></li><li><a href="http://devwebwithme.tk/amp/chuyen-muc/kinh-nghiem/" title="Kinh nghiệm">Kinh nghiệm</a></li><li><a href="http://devwebwithme.tk/amp/chuyen-muc/sach-hay/" title="Sách hay">Sách hay</a></li><li><a href="http://devwebwithme.tk/amp/chuyen-muc/loi-song/" title="Lối sống">Lối sống</a></li></ul></li><li><span title="Dự án">Dự án</span></li><li><a href="http://devwebwithme.tk/amp/tac-gia/dp0613/" title="Về @dp0613">Về @dp0613</a></li><li><a href="http://devwebwithme.tk/amp/lien-he/" title="Liên hệ">Liên hệ</a></li><li><a href="http://devwebwithme.tk/amp/ung-ho-toi/" title="ỦNG HỘ TÔI !">ỦNG HỘ TÔI !</a></li></ul></amp-sidebar></body></html>
+        }</style><style amp-boilerplate>body{-webkit-animation:-amp-start 8s steps(1,end) 0s 1 normal both;-moz-animation:-amp-start 8s steps(1,end) 0s 1 normal both;-ms-animation:-amp-start 8s steps(1,end) 0s 1 normal both;animation:-amp-start 8s steps(1,end) 0s 1 normal both}@-webkit-keyframes -amp-start{from{visibility:hidden}to{visibility:visible}}@-moz-keyframes -amp-start{from{visibility:hidden}to{visibility:visible}}@-ms-keyframes -amp-start{from{visibility:hidden}to{visibility:visible}}@-o-keyframes -amp-start{from{visibility:hidden}to{visibility:visible}}@keyframes -amp-start{from{visibility:hidden}to{visibility:visible}}</style><noscript><style amp-boilerplate>body{-webkit-animation:none;-moz-animation:none;-ms-animation:none;animation:none}</style></noscript><script async src="https://cdn.ampproject.org/v0.js"></script></head><body><nav class="navbar"><div><a on="tap:navbar-sidebar.toggle" class="navbar-sidebar-toggle" title="Menu">Menu</a> <a class="logo logo-text" href="http://devwebwithme.tk/amp">/* Dev Web With Me */</a></div></nav><main class="wrap"><article><header><h2><a href="http://devwebwithme.tk/amp/persistence-connection-mysql/">Kết nối liên tục - persistent connection trong MySQL</a></h2><p><a href="http://devwebwithme.tk/amp/tac-gia/dp0613/">@dp0613</a>, <time datetime="2017-10-04T14:34">cu20to34</time></p></header><a href="http://devwebwithme.tk/amp/persistence-connection-mysql/"><amp-img src="http://devwebwithme.tk/media/posts/6/circuit-158374_640.png" alt="Kết nối liên tục - persistent connection trong MySQL" srcset="http://devwebwithme.tk/media/posts/6/responsive/circuit-158374_640-xs.png 300w ,http://devwebwithme.tk/media/posts/6/responsive/circuit-158374_640-sm.png 480w ,http://devwebwithme.tk/media/posts/6/responsive/circuit-158374_640-md.png 768w" sizes="(max-width: 768px) 100vw, 768px" height="320" layout="responsive" width="480"></amp-img></a><p>Đ&acirc;y l&agrave; vấn đề được đề cập đến ở một c&acirc;u hỏi của StackOverFlow.com. T&ocirc;i muốn tr&igrave;nh b&agrave;y th&ecirc;m một v&agrave;i quan điểm của m&igrave;nh trong việc sử dụng loại&hellip;</p></article><article><header><h2><a href="http://devwebwithme.tk/amp/switch-va-if-else-if-lieu-ban-co-dang-dung-bua-dong-tua-vit-1506942139/">switch case và if else: Liệu bạn có đang dùng búa để đóng tua vít?</a></h2><p><a href="http://devwebwithme.tk/amp/tac-gia/dp0613/">@dp0613</a>, <time datetime="2017-10-02T17:58">cu46to58</time></p></header><a href="http://devwebwithme.tk/amp/switch-va-if-else-if-lieu-ban-co-dang-dung-bua-dong-tua-vit-1506942139/"><amp-img src="http://devwebwithme.tk/media/posts/5/confused-880735_1280.jpg" alt="switch case và if else: khi nào và ở đâu?" srcset="http://devwebwithme.tk/media/posts/5/responsive/confused-880735_1280-xs.jpg 300w ,http://devwebwithme.tk/media/posts/5/responsive/confused-880735_1280-sm.jpg 480w ,http://devwebwithme.tk/media/posts/5/responsive/confused-880735_1280-md.jpg 768w" sizes="(max-width: 768px) 100vw, 768px" height="853" layout="responsive" width="1280"></amp-img></a><p>L&agrave; một lập tr&igrave;nh vi&ecirc;n PHP th&igrave; tui c&oacute; niềm tin rằng bạn biết đến cấu tr&uacute;c switch...case v&agrave; if... else. Trong b&agrave;i viết n&agrave;y tui sẽ cố gắng ph&acirc;n&hellip;</p></article></main><footer class="bottom">@dp0613 © 2017</footer><amp-sidebar id="navbar-sidebar" layout="nodisplay"><ul><li><a href="http://devwebwithme.tk/amp/" title="Trang chủ">Trang chủ</a></li><li><span title="Bài viết">Bài viết</span><ul class="navbar__submenu"><li><a href="http://devwebwithme.tk/amp/chuyen-muc/khoa-hoc/" title="Khóa học">Khóa học</a></li><li><a href="http://devwebwithme.tk/amp/chuyen-muc/huong-dan/" title="Hướng dẫn">Hướng dẫn</a></li><li><a href="http://devwebwithme.tk/amp/chuyen-muc/kinh-nghiem/" title="Kinh nghiệm">Kinh nghiệm</a></li><li><a href="http://devwebwithme.tk/amp/chuyen-muc/sach-hay/" title="Sách hay">Sách hay</a></li><li><a href="http://devwebwithme.tk/amp/chuyen-muc/loi-song/" title="Lối sống">Lối sống</a></li></ul></li><li><span title="Dự án">Dự án</span></li><li><a href="http://devwebwithme.tk/amp/tac-gia/dp0613/" title="Về @dp0613">Về @dp0613</a></li><li><a href="http://devwebwithme.tk/amp/lien-he/" title="Liên hệ">Liên hệ</a></li><li><a href="http://devwebwithme.tk/amp/ung-ho-toi/" title="ỦNG HỘ TÔI !">ỦNG HỘ TÔI !</a></li></ul></amp-sidebar></body></html>
